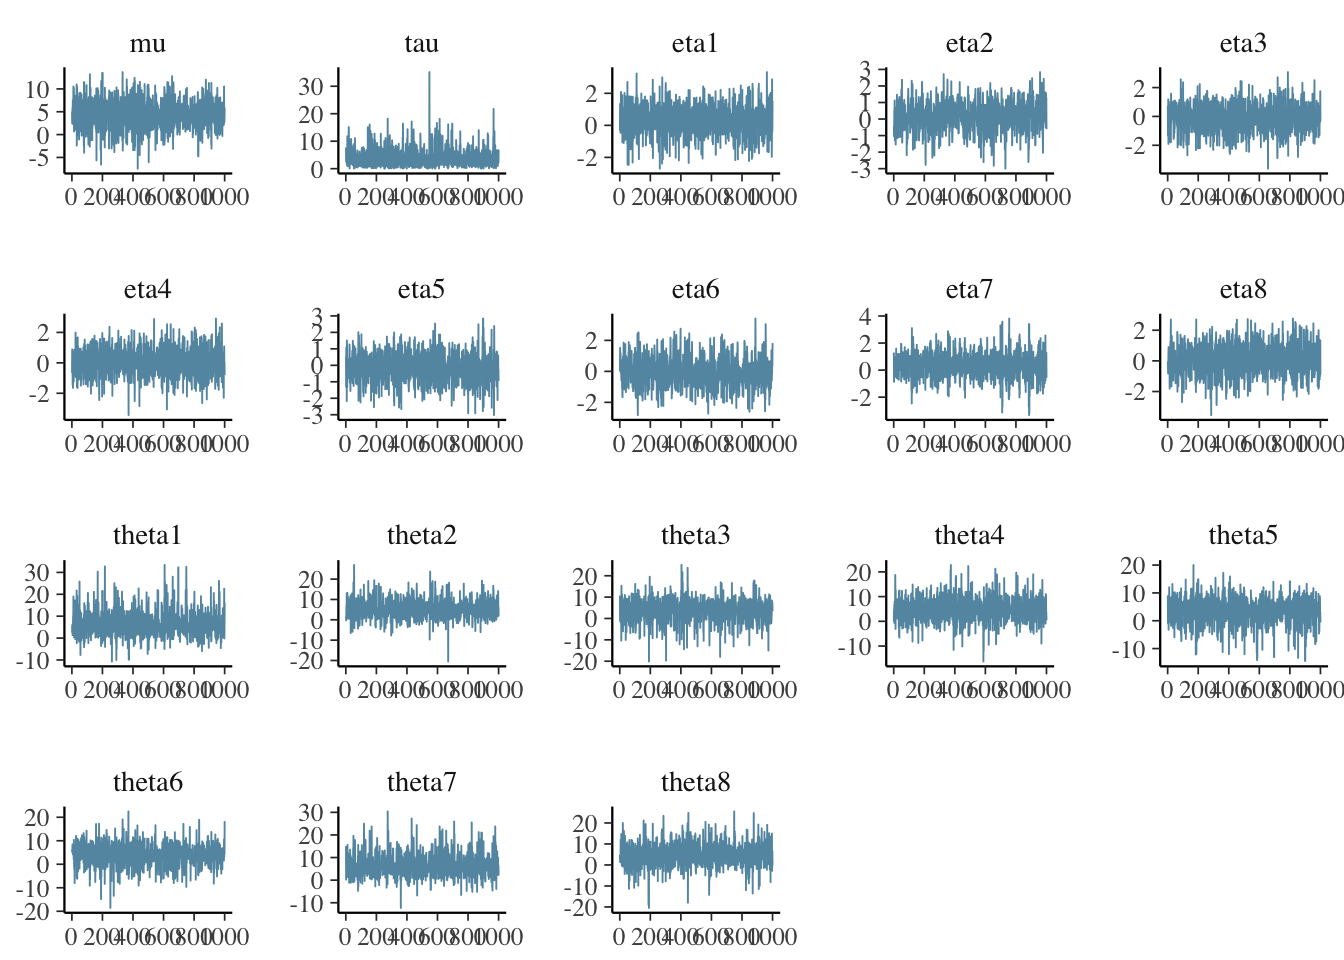
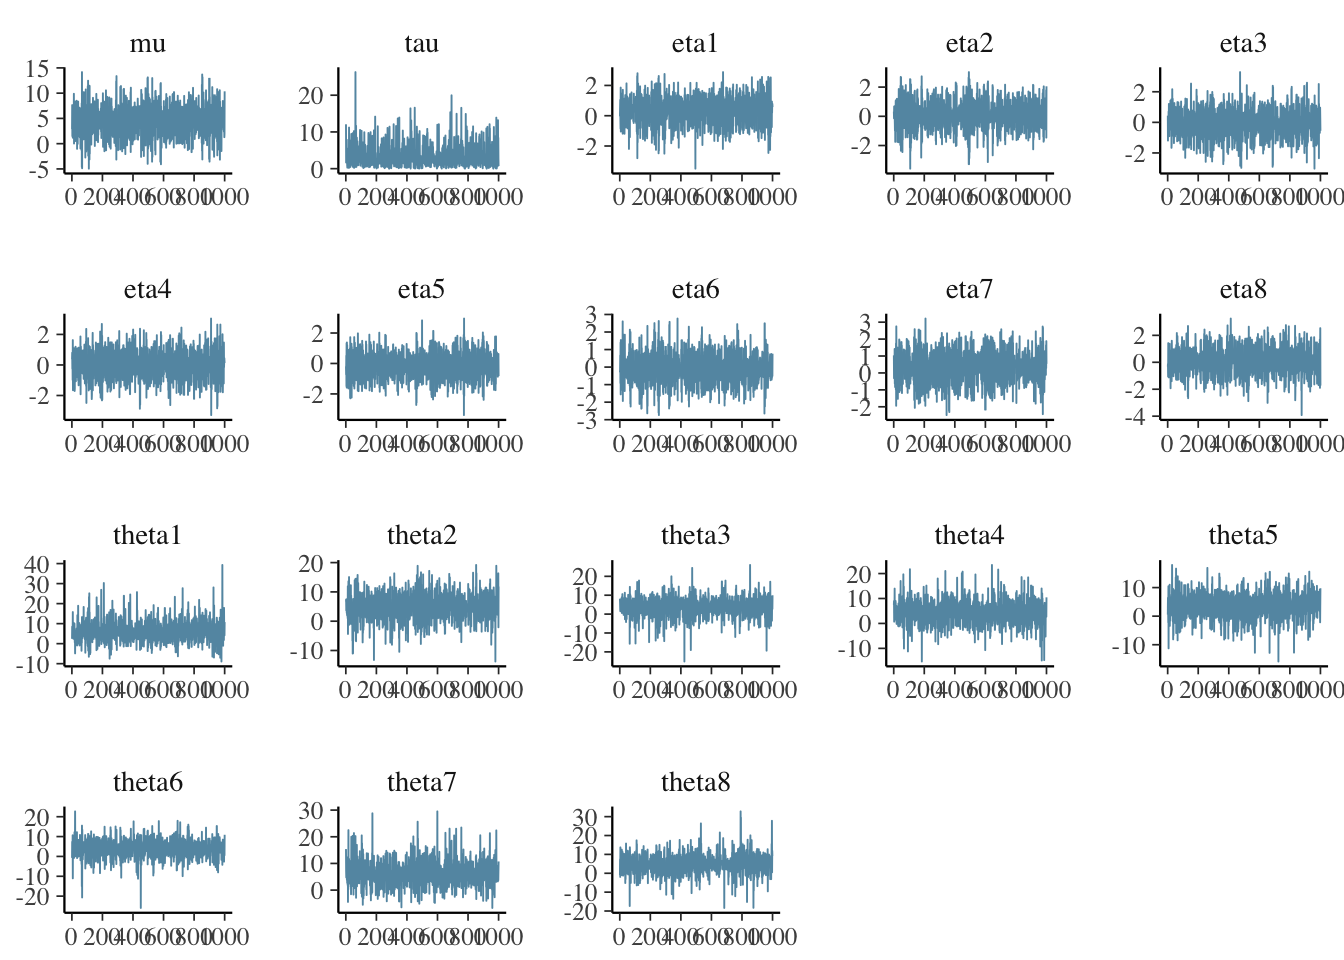
rebuild

diff --git a/content/post/2018-05-02-eight-schools-excercise-with-greta.html b/content/post/2018-05-02-eight-schools-excercise-with-greta.html
@@ -105,46 +105,46 @@ render_graph(gr)</code></pre>
 ##    plus standard error of the mean:
 ## 
 ##            Mean     SD Naive SE Time-series SE
-## mu      4.35124 3.3043  0.10449        0.05439
-## tau     3.78963 3.4693  0.10971        0.10300
-## eta1    0.31282 0.9725  0.03075        0.02403
-## eta2    0.13914 0.8930  0.02824        0.04109
-## eta3   -0.11416 0.9793  0.03097        0.02733
-## eta4    0.06440 0.9379  0.02966        0.01962
-## eta5   -0.15949 0.9051  0.02862        0.01882
-## eta6   -0.04545 0.9620  0.03042        0.03822
-## eta7    0.36604 0.9431  0.02982        0.01384
-## eta8    0.09029 1.0033  0.03173        0.03173
-## theta1  6.34915 5.7475  0.18175        0.15533
-## theta2  5.13281 4.6168  0.14600        0.13480
-## theta3  3.72471 5.3357  0.16873        0.13203
-## theta4  4.68494 4.7919  0.15153        0.11231
-## theta5  3.40023 4.6982  0.14857        0.11387
-## theta6  3.97732 4.6816  0.14805        0.14104
-## theta7  6.38071 5.0401  0.15938        0.11763
-## theta8  4.84698 5.4694  0.17296        0.14833
+## mu      4.47420 3.2661  0.10328        0.04859
+## tau     3.47276 3.1053  0.09820        0.09360
+## eta1    0.29450 0.9626  0.03044        0.01704
+## eta2    0.08463 1.0094  0.03192        0.01199
+## eta3   -0.08251 0.9549  0.03020        0.01668
+## eta4    0.01239 0.9660  0.03055        0.01984
+## eta5   -0.16248 0.9043  0.02860        0.01275
+## eta6   -0.06525 0.9095  0.02876        0.01364
+## eta7    0.34821 0.9580  0.03029        0.01618
+## eta8    0.07970 1.0334  0.03268        0.02130
+## theta1  6.05175 5.2985  0.16755        0.12792
+## theta2  4.79677 4.7058  0.14881        0.12365
+## theta3  3.94441 5.1332  0.16233        0.12279
+## theta4  4.55790 4.8127  0.15219        0.10452
+## theta5  3.81869 4.5751  0.14468        0.10857
+## theta6  4.00155 4.6655  0.14754        0.10644
+## theta7  6.18785 4.8630  0.15378        0.11376
+## theta8  4.76635 5.2481  0.16596        0.13809
 ## 
 ## 2. Quantiles for each variable:
 ## 
 ##           2.5%     25%      50%    75%  97.5%
-## mu     -2.2835  2.1675  4.41776 6.5087 10.676
-## tau     0.1469  1.3362  2.85081 5.0454 12.780
-## eta1   -1.7407 -0.2989  0.33837 0.9840  2.143
-## eta2   -1.6178 -0.4274  0.13751 0.7642  1.819
-## eta3   -2.0444 -0.7768 -0.07093 0.5270  1.725
-## eta4   -1.7048 -0.5595  0.06489 0.6780  1.914
-## eta5   -1.9532 -0.7343 -0.15952 0.4449  1.502
-## eta6   -1.8410 -0.6699 -0.08501 0.5687  1.898
-## eta7   -1.5129 -0.2344  0.40768 0.9570  2.223
-## eta8   -1.9404 -0.5501  0.08436 0.7717  2.016
-## theta1 -2.8583  2.8874  5.54641 9.1636 21.209
-## theta2 -3.0225  1.9353  5.03248 7.7144 14.979
-## theta3 -8.8136  1.0220  4.06954 7.1374 13.299
-## theta4 -4.5575  1.6061  4.55727 7.7030 14.514
-## theta5 -7.2410  0.9678  3.77670 6.3568 11.785
-## theta6 -6.1868  1.3039  4.14622 6.9138 12.433
-## theta7 -1.8215  3.1242  5.78990 9.0194 18.092
-## theta8 -6.0596  1.6441  4.68650 7.9573 16.105</code></pre>
+## mu     -1.6846  2.2215  4.57568 6.6785 10.788
+## tau     0.1126  1.2442  2.59517 4.8535 11.514
+## eta1   -1.5859 -0.3917  0.33092 0.9553  2.128
+## eta2   -1.9115 -0.5361  0.08974 0.7141  2.058
+## eta3   -2.0023 -0.7085 -0.09644 0.5600  1.770
+## eta4   -1.9129 -0.6468  0.02978 0.6808  1.940
+## eta5   -1.8440 -0.7780 -0.18244 0.4539  1.581
+## eta6   -1.8994 -0.6600 -0.04703 0.5306  1.703
+## eta7   -1.5515 -0.3001  0.38844 1.0052  2.111
+## eta8   -1.9277 -0.5656  0.11132 0.7481  2.103
+## theta1 -3.1677  2.9078  5.49951 8.6649 17.841
+## theta2 -4.6101  1.7741  4.76276 7.9217 13.987
+## theta3 -7.1432  1.2304  4.38475 7.0244 13.607
+## theta4 -5.2650  1.9062  4.70690 7.3952 13.870
+## theta5 -5.9323  1.0631  3.97204 6.8710 12.277
+## theta6 -5.3784  1.2129  4.24518 6.8031 13.163
+## theta7 -2.6653  3.2818  5.66672 8.8996 16.385
+## theta8 -5.2752  1.8268  4.88107 7.7261 15.088</code></pre>
 <p>MCMC chain and the parameter estimates can be plotted using <code>bayesplot</code> package:</p>
 <pre class="r"><code>library(bayesplot)</code></pre>
 <pre><code>## This is bayesplot version 1.4.0</code></pre>
